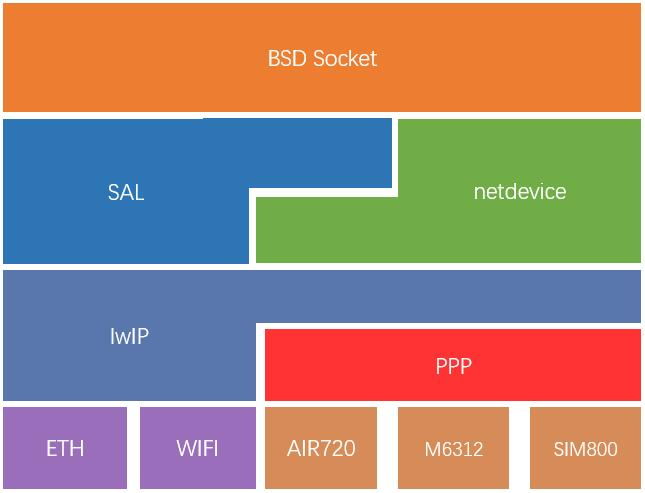
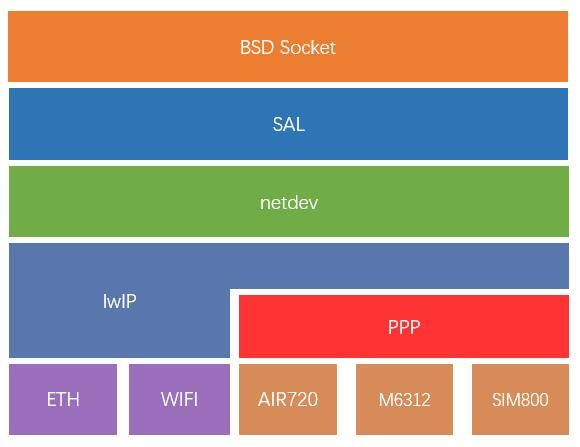
【修改】PPP框架图 【修改】PPP_DEVICE的描述 【添加】注意事项

diff --git a/README.md b/README.md
@@ -2,23 +2,25 @@
 
 ## 1. 简介
 
-PPP Device 软件包，是 RT-Thread 针对不同模块的 lwIP PPP 功能实现的软件包。它使 GPRS 模块不再需要发送 AT 命令，使用 PPP 方式即可实现网络数据传输。
+PPP Device 软件包，是 RT-Thread 针对不同模块的 lwIP PPP 功能实现的软件包。它使蜂窝模块不再需要发送 AT 命令，使用 PPP 方式即可实现网络数据传输。
 
 PPP Device 软件包特点如下：
 
-- 支持多种 GPRS 模块；
+- 支持多种蜂窝模块；
 - 无缝兼容多种应用层网络协议（HTTP、MQTT、TLS 等）；
 - 支持数据差错检测，提供可靠数据传输；
 
 * 提供 CHAT 方式初始化功能，方便设备移植；
 
-目前 PPP 功能支持 Luat Air720，China mobile M6312,  SIMCOM SIM800 模块，后续会接入更多 GPRS 模块。
+目前 PPP 功能支持 Luat Air720，China mobile M6312,  SIMCOM SIM800 模块，后续会接入更多蜂窝模块。
 
 
 
 对 PPP Device 有疑惑，或者对 PPP Device 感兴趣的开发者欢迎入群详细了解。
 
 QQ群：749347156 [<传送门>](https://jq.qq.com/?_wv=1027&k=5KcuPGI)
+
+移植文档地址：<[移植文档](docs/Module transplantation.md)>
 
 ### 1.1 框架图
 
@@ -35,9 +37,6 @@ QQ群：749347156 [<传送门>](https://jq.qq.com/?_wv=1027&k=5KcuPGI)
 | inc | PPP Device 头文件目录 |
 | sample | PPP 功能示例文件目录 |
 | class | 不同设备针对 PPP 功能的移植适配目录 |
-| class/air720 | Air720 设备针对 PPP 功能的移植目录，实现 PPP 拨号上网 功能 |
-| class/sim800 | Sim800 设备针对 PPP 功能的移植目录，实现 PPP 拨号上网 功能 |
-| class/m6312 | M6312 设备针对 PPP 功能的移植目录，实现 PPP 拨号上网 功能 |
 
 ### 1.3 许可证
 
@@ -54,7 +53,7 @@ ppp_device 软件包遵循 Apache-2.0 许可，详见 LICENSE 文件。
 
 
 ```c
-[*] PPP DEVICE: lwIP PPP porting for different device
+[*] PPP DEVICE: lwIP PPP porting for Cellular Module( 2G/3G/4G )
     [ ]   Enable debug log output
     [ ]   Enbale authorize connect feature
     [*]   Enable lin status detect feature
@@ -174,11 +173,13 @@ msh />ping www.baidu.com
 
 ## 4. 注意事项
 
-* 一般的SIM卡因为只能从运营商网络获取内网地址，所以不能实现服务器相关功能
+* 一般的 SIM 卡因为只能从运营商网络获取内网地址，所以一般不能实现服务器相关功能
+* 特殊的 SIM 卡可以从运营商获取公网地址，可是实现服务器功能
 * 目前只支持一个设备通过 PPP 连接网络
 * 建议不要打开 RT_DEVICE_FLAG_DMA_TX
 * 如果网络环境不好，建议关闭 Enable lin status detect feature 选项，或调整成大一点的时间
 * RT_LWIP_TCPTHREAD_STACKSIZE 需要配置为不小于 2048，及时在 network 组件中修改
+* 不要忘记打开串口
 
 ## 5. 联系方式
 
